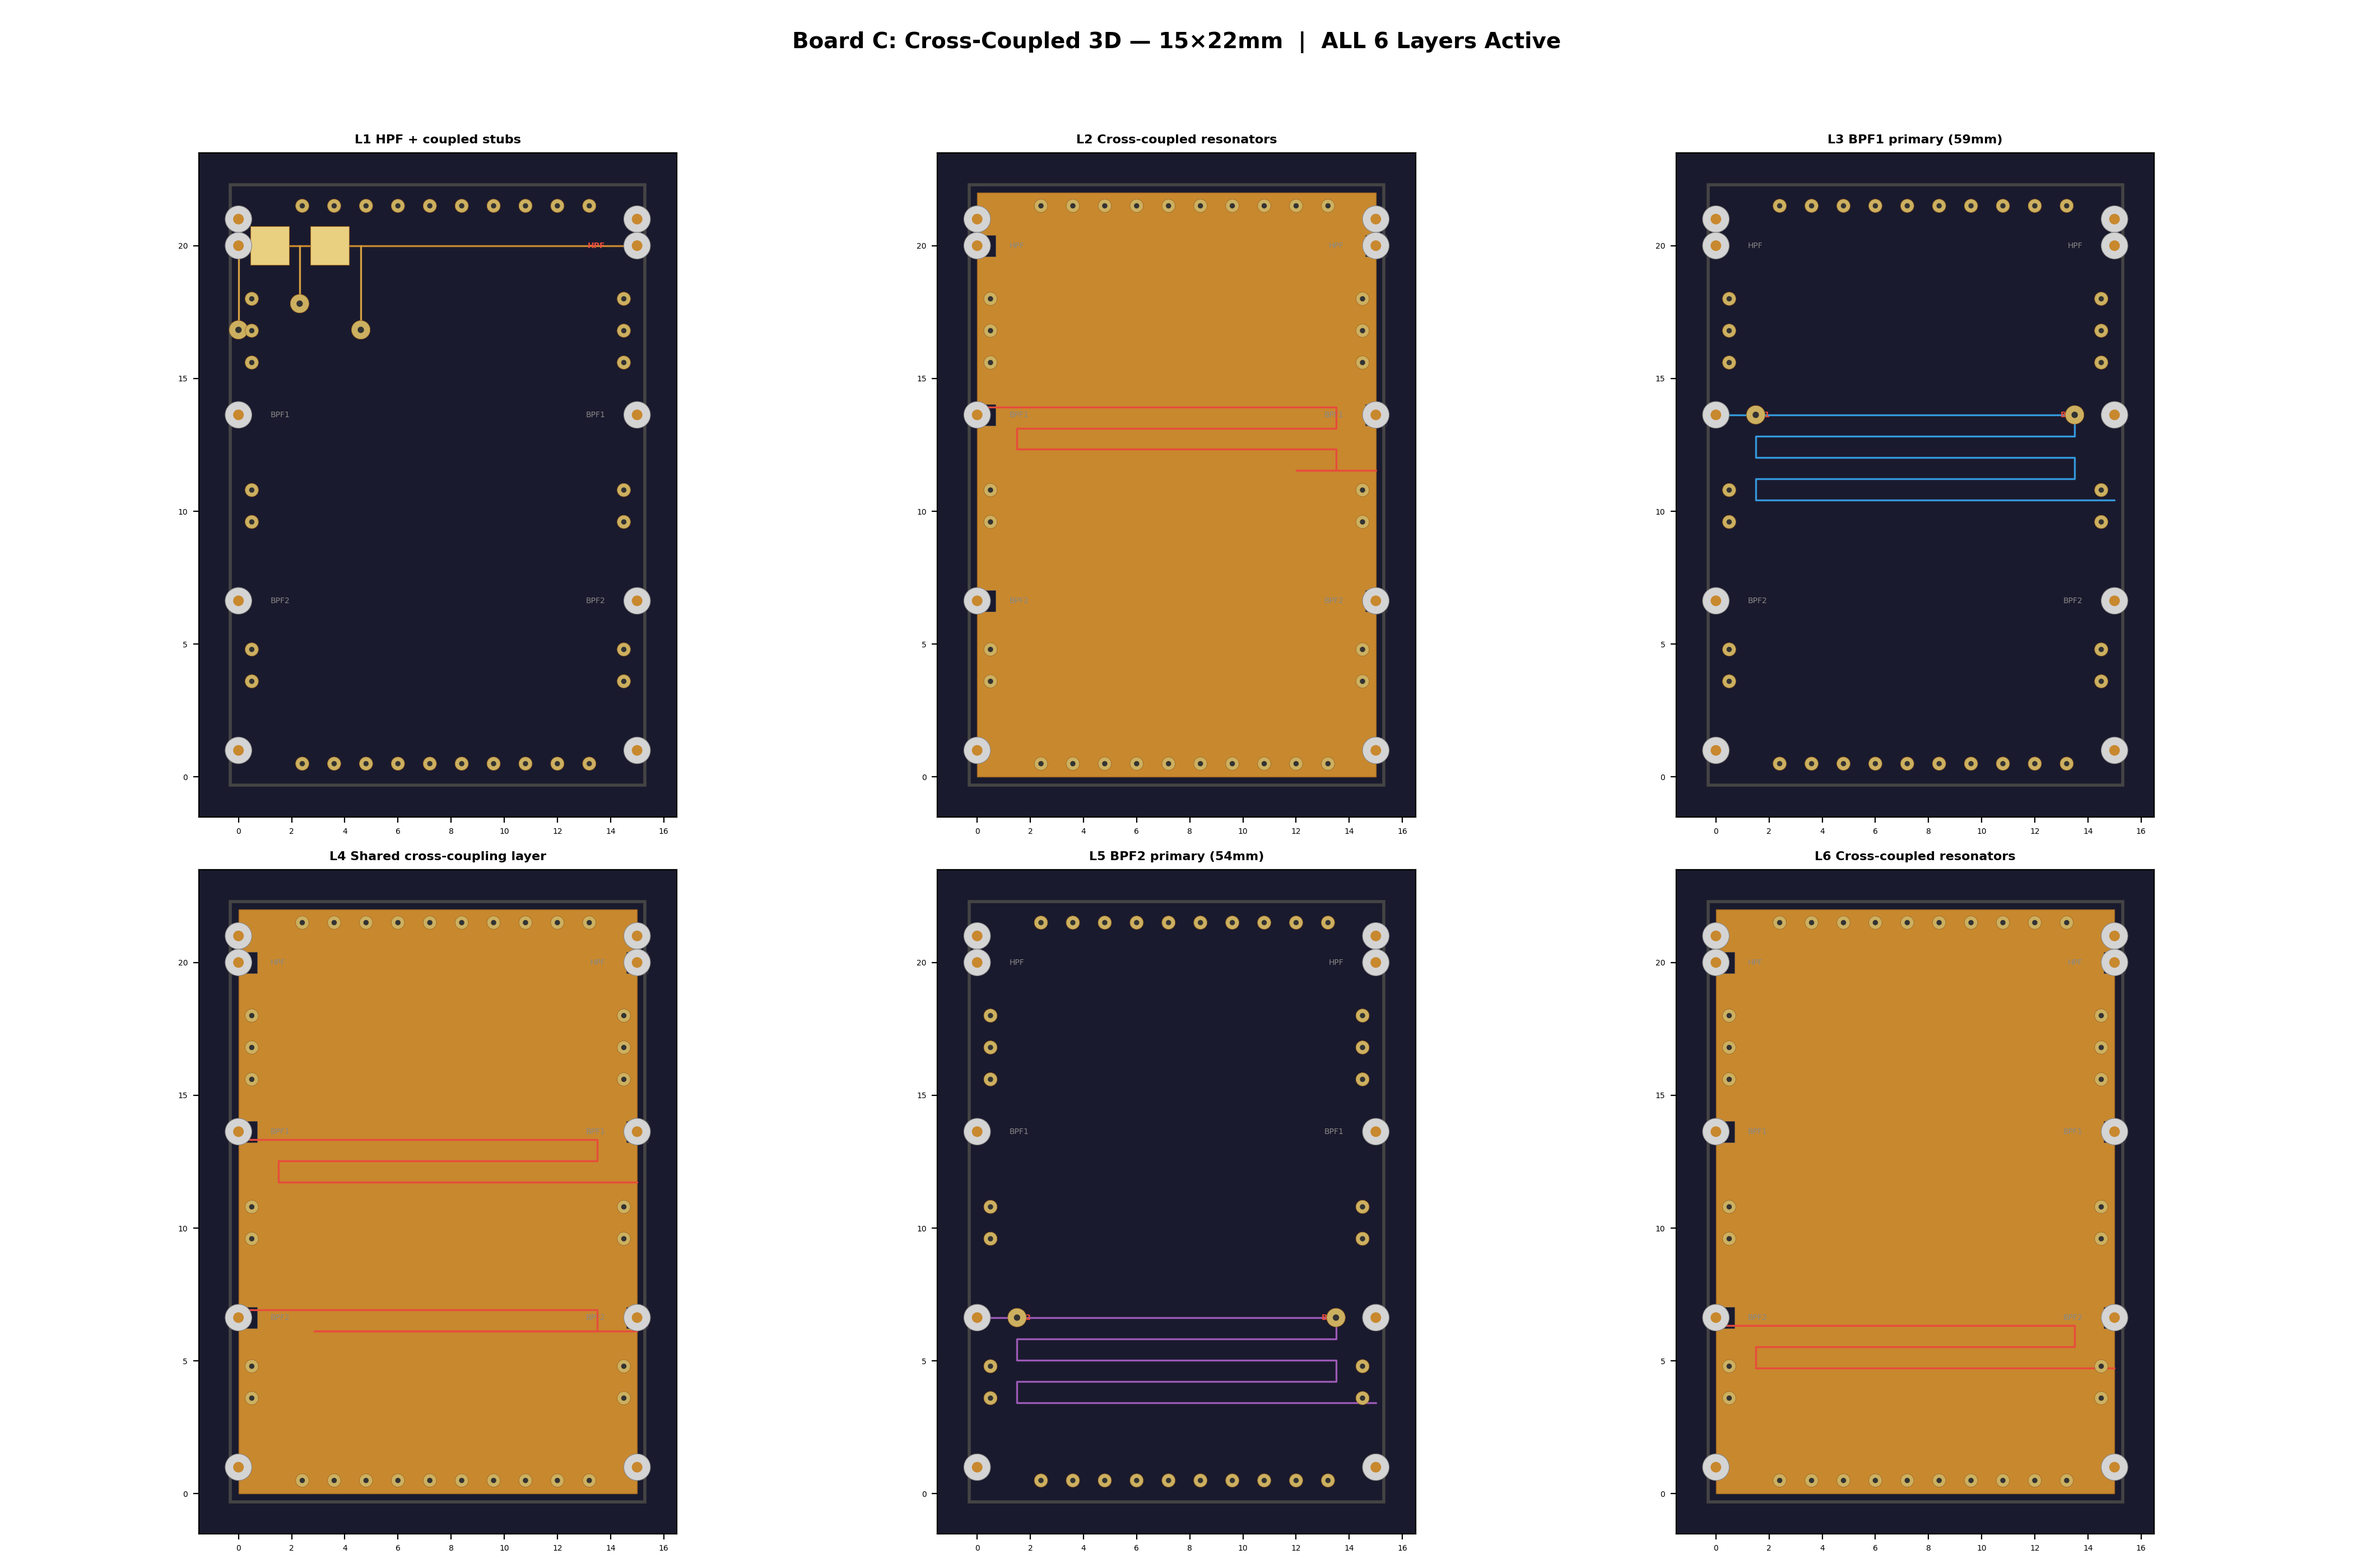
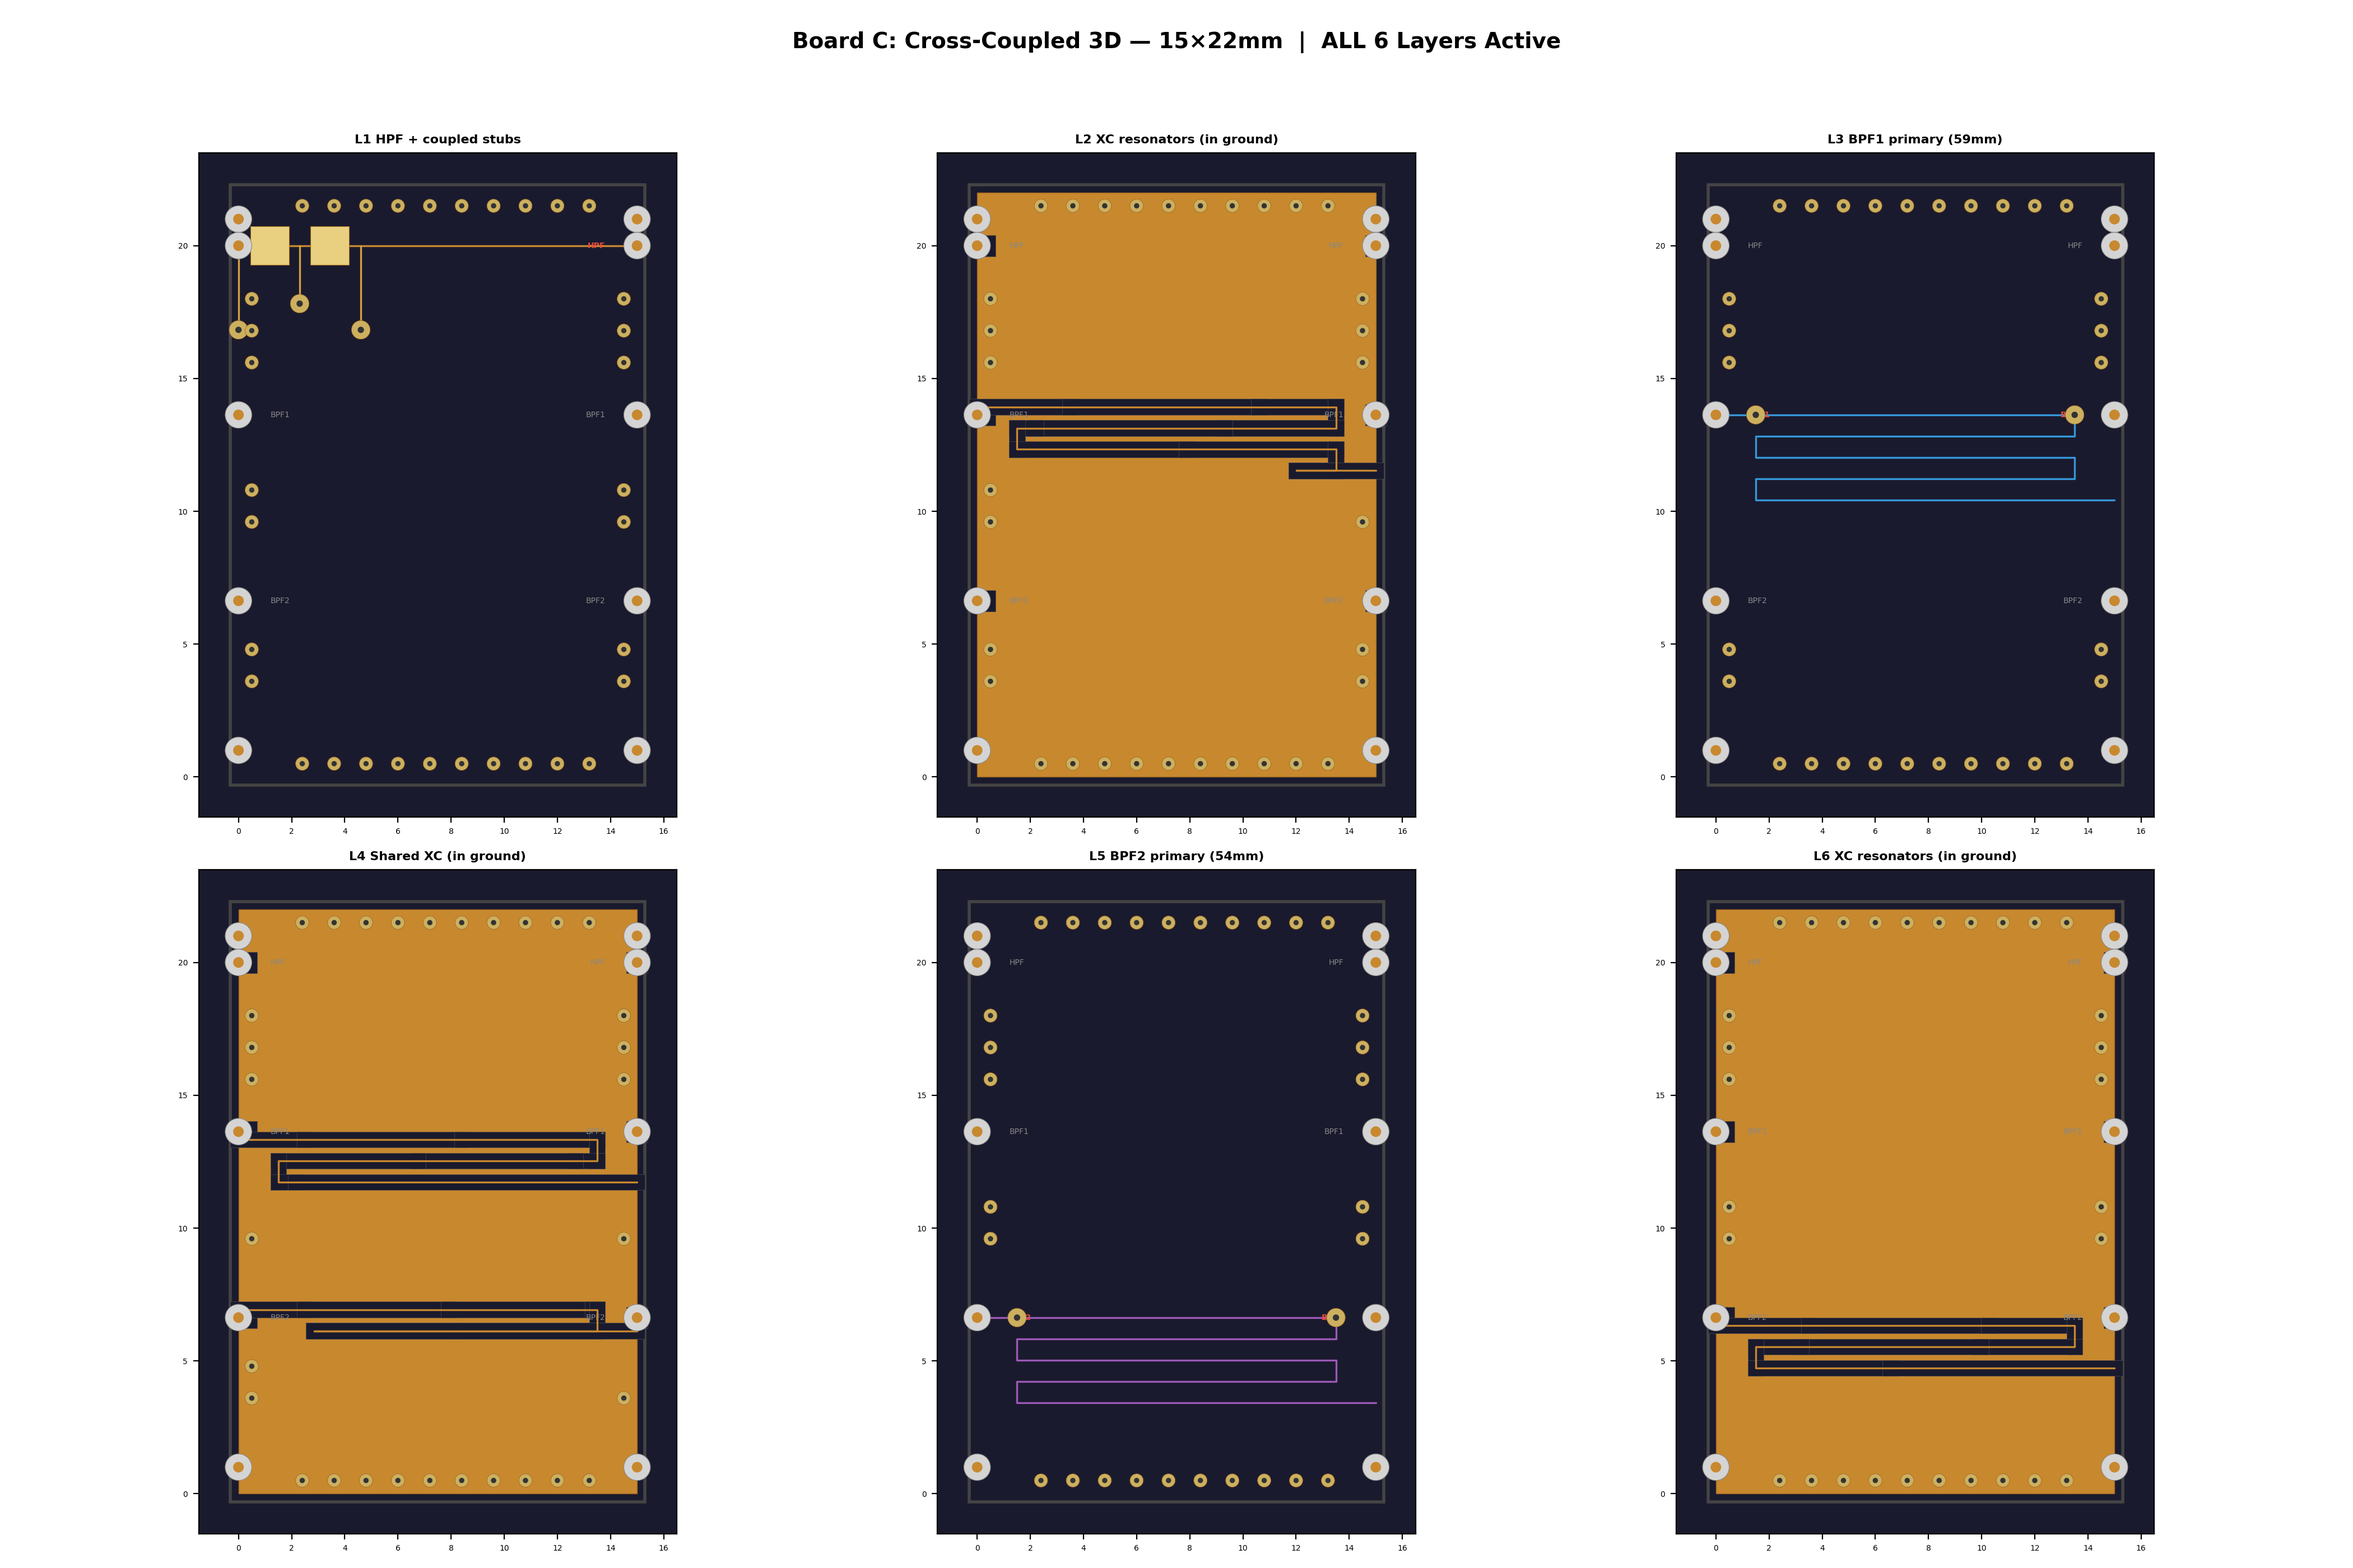
Fix Board C artwork, add group delay plots
Board C copper artwork fixed:
  - Cross-coupled resonator traces on L2/L4/L6 now shown as
    stripline traces WITHIN void cutouts in the ground pour
    (was: copper traces drawn on top of copper pour = nonsensical)
  - _trace_voids() generates rectangular clearances along trace paths
  - Traces rendered in copper color on dark substrate (void)

Via fence exclusions expanded:
  - _trace_excl() generates exclusion zones along all trace paths
  - Via fence now avoids all traces, not just castellated pads
  - Applied to all signal layers on all boards

Group delay plot added (board_group_delay.png):
  - Three panels: HPF, BPF1, BPF2
  - All three boards overlaid (A=blue, B=red, C=green)
  - Computed as tau = -d(unwrap(angle(S21)))/d(omega)
  - Clipped to 95th percentile to avoid transition-band spikes
  - Shows higher group delay for steeper rolloff (N=9) as expected

Output: 9 PNGs + 3 GIFs = 12 files

diff --git a/shape_filter_bank.py b/shape_filter_bank.py
@@ -386,6 +386,25 @@ def _draw_gnd_pour(ax, bw, bh, voids=None):
         for (x, y, w, h) in voids:
             ax.add_patch(Rectangle((x, y), w, h, fc=SUBSTRATE, ec="#555", lw=0.2, zorder=2))
 
+def _trace_voids(pts, clearance=0.6):
+    """Generate rectangular void cutouts along a trace path."""
+    voids = []
+    for i in range(len(pts) - 1):
+        x1, y1 = pts[i]; x2, y2 = pts[i + 1]
+        xlo = min(x1, x2) - clearance / 2
+        ylo = min(y1, y2) - clearance / 2
+        w = abs(x2 - x1) + clearance
+        h = abs(y2 - y1) + clearance
+        voids.append((xlo, ylo, max(w, clearance), max(h, clearance)))
+    return voids
+
+def _trace_excl(pts, radius=1.5):
+    """Generate via fence exclusion zones along a trace path."""
+    excl = []
+    for p in pts:
+        excl.append((p[0], p[1], radius))
+    return excl
+
 def _draw_via_fence(ax, bw, bh, excl):
     def ok(x, y):
         for ex, ey, er in excl:
@@ -673,32 +692,43 @@ def main():
         cx,cy=cap_posX[k]; ps=mim_padsX[k]
         ax.add_patch(Rectangle((cx-ps/2,cy-ps/2),ps,ps,fc="#e8d080",ec=CU_DARK,lw=0.4,zorder=4))
     _padsX(ax,"H"); _draw_via_fence(ax,bw3,bh3,exclX)
-    # L2 — cross-coupled resonators (NOT just ground)
-    ax = _layer_ax(fig,(2,3,2),"L2 Cross-coupled resonators",bw3,bh3)
-    _draw_gnd_pour(ax,bw3,bh3,gnd_voidsX)
-    _draw_trace(ax, _meander_pts(EDGE_PAD+2,y_b1X+0.3,[tX1*0.6/5]*5,bw3), 0.3, color="#e74c3c",z=4)
-    _draw_via_fence(ax,bw3,bh3,exclX); _padsX(ax)
+    # L2 — cross-coupled resonators etched FROM ground pour (stripline)
+    xc_l2_pts = _meander_pts(EDGE_PAD+2, y_b1X+0.3, [tX1*0.6/5]*5, bw3)
+    ax = _layer_ax(fig,(2,3,2),"L2 XC resonators (in ground)",bw3,bh3)
+    l2_voids = list(gnd_voidsX) + _trace_voids(xc_l2_pts)
+    _draw_gnd_pour(ax,bw3,bh3,l2_voids)
+    _draw_trace(ax, xc_l2_pts, 0.3, color=CU, z=4)
+    _draw_via_fence(ax,bw3,bh3,exclX + _trace_excl(xc_l2_pts)); _padsX(ax)
+
     # L3 BPF1
     ax = _layer_ax(fig,(2,3,3),f"L3 BPF1 primary ({tX1:.0f}mm)",bw3,bh3)
     _draw_trace(ax,b1ptsX,SL_W50_MM,color="#3498db")
     _draw_via(ax,EDGE_PAD,y_b1X); _draw_via(ax,bw3-EDGE_PAD,y_b1X)
-    _padsX(ax,"1"); _draw_via_fence(ax,bw3,bh3,exclX)
-    # L4 — shared cross-coupled (NOT just ground)
-    ax = _layer_ax(fig,(2,3,4),"L4 Shared cross-coupling layer",bw3,bh3)
-    _draw_gnd_pour(ax,bw3,bh3,gnd_voidsX)
-    _draw_trace(ax, _meander_pts(EDGE_PAD+1,y_b1X-0.3,[tX1*0.4/4]*4,bw3), 0.3, color="#e74c3c",z=4)
-    _draw_trace(ax, _meander_pts(EDGE_PAD+1,y_b2X+0.3,[tX2*0.4/4]*4,bw3), 0.3, color="#e74c3c",z=4)
-    _draw_via_fence(ax,bw3,bh3,exclX); _padsX(ax)
+    _padsX(ax,"1"); _draw_via_fence(ax,bw3,bh3,exclX + _trace_excl(b1ptsX))
+
+    # L4 — shared cross-coupling: traces etched from ground pour
+    xc_l4a_pts = _meander_pts(EDGE_PAD+1, y_b1X-0.3, [tX1*0.4/4]*4, bw3)
+    xc_l4b_pts = _meander_pts(EDGE_PAD+1, y_b2X+0.3, [tX2*0.4/4]*4, bw3)
+    ax = _layer_ax(fig,(2,3,4),"L4 Shared XC (in ground)",bw3,bh3)
+    l4_voids = list(gnd_voidsX) + _trace_voids(xc_l4a_pts) + _trace_voids(xc_l4b_pts)
+    _draw_gnd_pour(ax,bw3,bh3,l4_voids)
+    _draw_trace(ax, xc_l4a_pts, 0.3, color=CU, z=4)
+    _draw_trace(ax, xc_l4b_pts, 0.3, color=CU, z=4)
+    _draw_via_fence(ax,bw3,bh3,exclX + _trace_excl(xc_l4a_pts) + _trace_excl(xc_l4b_pts)); _padsX(ax)
+
     # L5 BPF2
     ax = _layer_ax(fig,(2,3,5),f"L5 BPF2 primary ({tX2:.0f}mm)",bw3,bh3)
     _draw_trace(ax,b2ptsX,SL_W50_MM,color="#9b59b6")
     _draw_via(ax,EDGE_PAD,y_b2X); _draw_via(ax,bw3-EDGE_PAD,y_b2X)
-    _padsX(ax,"2"); _draw_via_fence(ax,bw3,bh3,exclX)
-    # L6 — cross-coupled resonators
-    ax = _layer_ax(fig,(2,3,6),"L6 Cross-coupled resonators",bw3,bh3)
-    _draw_gnd_pour(ax,bw3,bh3,gnd_voidsX)
-    _draw_trace(ax, _meander_pts(EDGE_PAD+2,y_b2X-0.3,[tX2*0.5/4]*4,bw3), 0.3, color="#e74c3c",z=4)
-    _draw_via_fence(ax,bw3,bh3,exclX); _padsX(ax)
+    _padsX(ax,"2"); _draw_via_fence(ax,bw3,bh3,exclX + _trace_excl(b2ptsX))
+
+    # L6 — cross-coupled resonators etched from ground pour
+    xc_l6_pts = _meander_pts(EDGE_PAD+2, y_b2X-0.3, [tX2*0.5/4]*4, bw3)
+    ax = _layer_ax(fig,(2,3,6),"L6 XC resonators (in ground)",bw3,bh3)
+    l6_voids = list(gnd_voidsX) + _trace_voids(xc_l6_pts)
+    _draw_gnd_pour(ax,bw3,bh3,l6_voids)
+    _draw_trace(ax, xc_l6_pts, 0.3, color=CU, z=4)
+    _draw_via_fence(ax,bw3,bh3,exclX + _trace_excl(xc_l6_pts)); _padsX(ax)
     fig.tight_layout(rect=[0,0,1,0.95])
     fig.savefig("board_crosscoupled_copper.png",dpi=200); plt.close(fig)
     generated.append("board_crosscoupled_copper.png")
@@ -821,6 +851,59 @@ def main():
             fname = None
         plt.close(fig_g)
         return fname
+
+    # ── Group delay plots ─────────────────────────────────────────────
+    def _group_delay_ns(s21_arr, f_hz_arr):
+        """Group delay = -d(phase)/d(omega) in nanoseconds."""
+        phase = np.unwrap(np.angle(s21_arr))
+        omega = 2 * np.pi * f_hz_arr
+        d_phase = np.gradient(phase, omega)
+        return -d_phase * 1e9
+
+    fig_gd, axes_gd = plt.subplots(1, 3, figsize=(18, 5))
+    fig_gd.suptitle("Group Delay — All Boards", fontsize=14, fontweight="bold")
+
+    boards_gd = [
+        ("Board A (N=5)", s21b1_std, s21b2_std, "b"),
+        ("Board B (N=9)", s21b1_stp, s21b2_stp, "r"),
+        ("Board C (XC 3D)", s21Xb1, s21Xb2, "g"),
+    ]
+
+    # HPF group delay (shared)
+    ax = axes_gd[0]
+    gd_hpf = _group_delay_ns(s21h_np, np.array(fp))
+    ax.plot(f_ghz, gd_hpf, "k", lw=1.5)
+    ax.set_title("HPF (shared)"); ax.set_xlabel("GHz"); ax.set_ylabel("Group delay [ns]")
+    ax.set_xlim(1, 6); ax.set_ylim(0, max(np.max(gd_hpf[(f_ghz>2)&(f_ghz<6)]), 1) * 1.5)
+    ax.axvline(2.5, color="gray", ls=":", lw=0.8); ax.grid(True, alpha=0.3)
+
+    # BPF1 group delay
+    ax = axes_gd[1]
+    for label, s21b1, _, col in boards_gd:
+        gd = _group_delay_ns(s21b1, np.array(fp))
+        mask = (f_ghz >= 2.0) & (f_ghz <= 4.5)
+        gd_clip = np.clip(gd, 0, np.percentile(gd[mask], 95) * 2)
+        ax.plot(f_ghz, gd_clip, col, lw=1.2, label=label)
+    ax.set_title("BPF1 2.5-3.75 GHz"); ax.set_xlabel("GHz"); ax.set_ylabel("Group delay [ns]")
+    ax.set_xlim(2, 4.5); ax.legend(fontsize=8)
+    ax.axvline(2.5, color="gray", ls=":", lw=0.8); ax.axvline(3.75, color="gray", ls=":", lw=0.8)
+    ax.grid(True, alpha=0.3)
+
+    # BPF2 group delay
+    ax = axes_gd[2]
+    for label, _, s21b2, col in boards_gd:
+        gd = _group_delay_ns(s21b2, np.array(fp))
+        mask = (f_ghz >= 3.0) & (f_ghz <= 5.5)
+        gd_clip = np.clip(gd, 0, np.percentile(gd[mask], 95) * 2)
+        ax.plot(f_ghz, gd_clip, col, lw=1.2, label=label)
+    ax.set_title("BPF2 3.75-5.0 GHz"); ax.set_xlabel("GHz"); ax.set_ylabel("Group delay [ns]")
+    ax.set_xlim(3, 5.5); ax.legend(fontsize=8)
+    ax.axvline(3.75, color="gray", ls=":", lw=0.8); ax.axvline(5.0, color="gray", ls=":", lw=0.8)
+    ax.grid(True, alpha=0.3)
+
+    fig_gd.tight_layout()
+    fig_gd.savefig("board_group_delay.png", dpi=200); plt.close(fig_gd)
+    generated.append("board_group_delay.png")
 
     print("\n  Generating 2D wave propagation GIFs...")
     gf = _wave_gif_2d(b1pts1, s21b1_std, "Board A: Standard BPF1 (N=5)",
